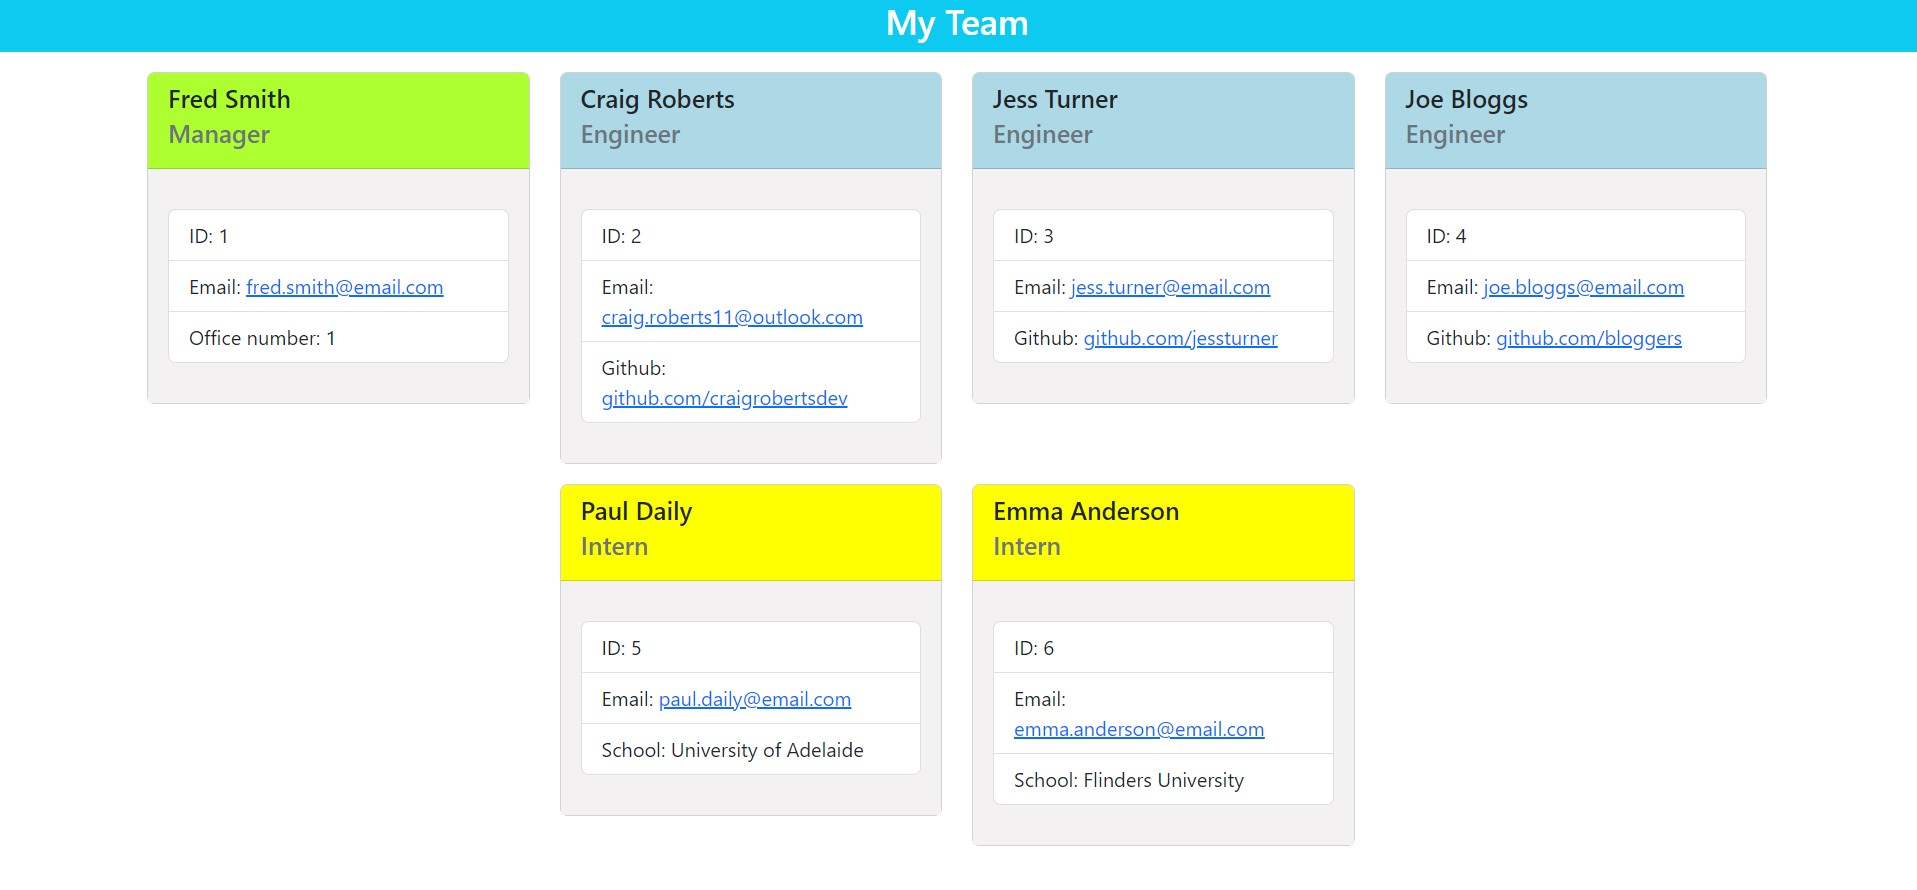
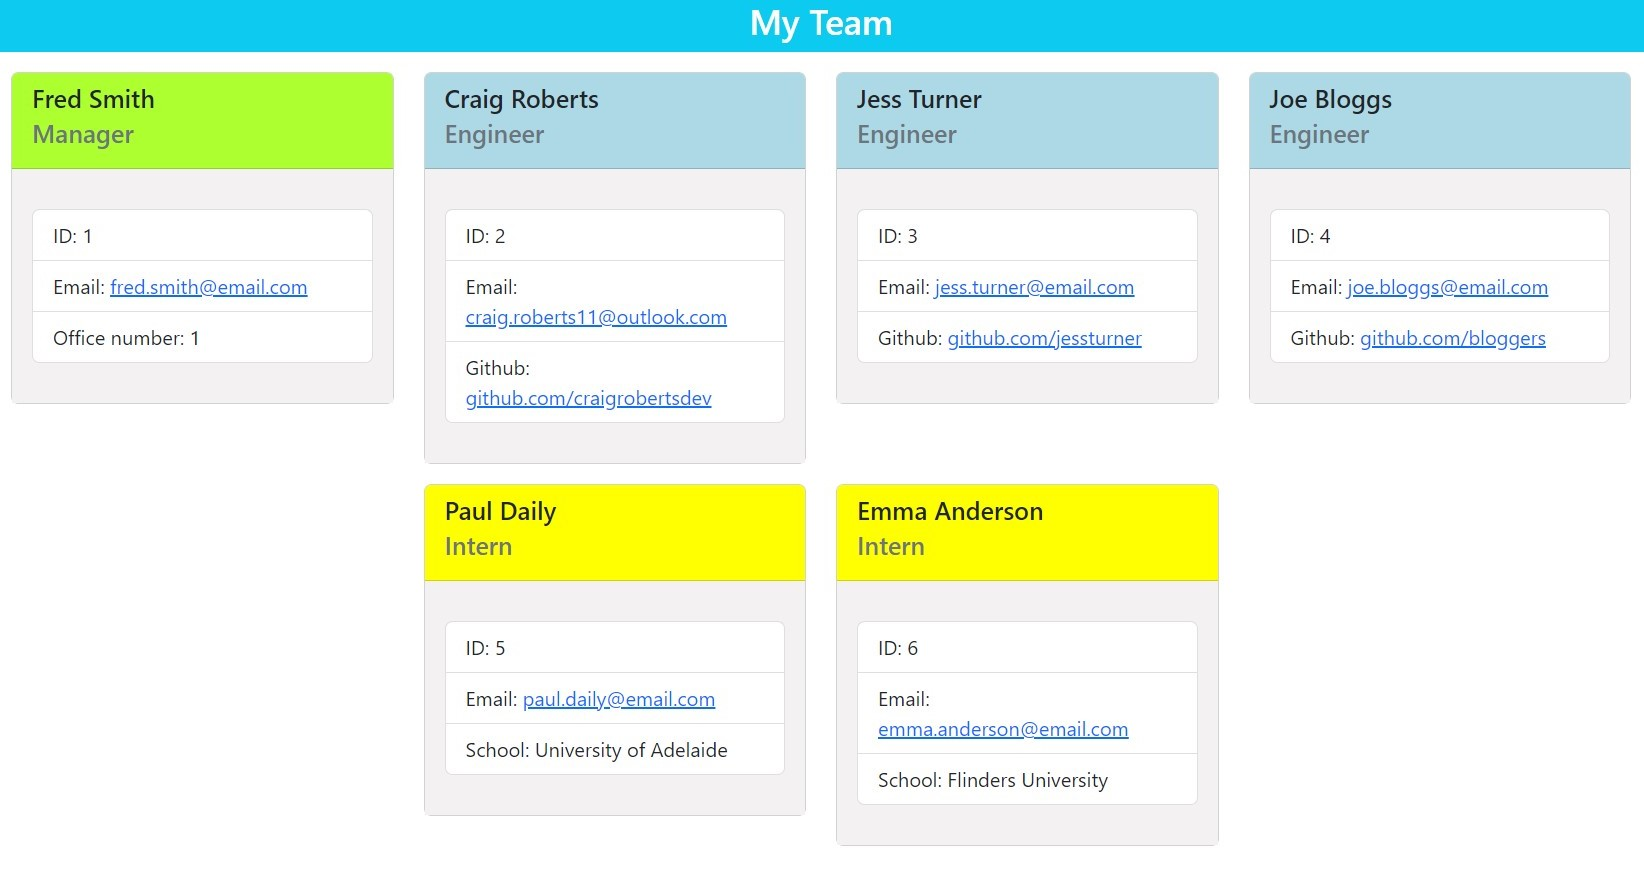
finished adding responsiveness

diff --git a/assets/css/style.css b/assets/css/style.css
@@ -227,7 +227,7 @@ h1 {
   color: var(--text-color);
 }
 
-header h2 {
+h2 {
   grid-row: 2/3;
   font-size: 2rem;
   text-align: center;
@@ -377,9 +377,9 @@ section div p,
 .project-card {
   display: grid;
   grid-template-columns: 1.5fr 1fr;
-
   grid-template-rows: auto auto auto;
   row-gap: 0;
+  column-gap: 1rem;
 }
 
 .project-container:nth-of-type(even) .project-card {
@@ -389,17 +389,18 @@ section div p,
 .project-image {
   width: 100%;
   height: 100%;
-  opacity: 0.85;
+  opacity: 0.9;
   grid-row: 1/-1;
+}
+
+.project-image-sm {
+  display: none;
 }
 
 /* for alternating the project-image either left or right  */
 .project-container:nth-of-type(odd) .project-description,
 .project-container:nth-of-type(odd) .technologies,
-.project-container:nth-of-type(odd) .project-access {
-  grid-column: 2/3;
-}
-
+.project-container:nth-of-type(odd) .project-access,
 .project-container:nth-of-type(even) .project-image {
   grid-column: 2/3;
 }
@@ -433,13 +434,6 @@ section div p,
   height: 2.5rem;
   width: 2.5rem;
 }
-
-/* .project-access-grid {
-  display: grid;
-  grid-template-columns: auto 1fr;
-  gap: 2rem;
-  margin-left: 1rem;
-} */
 
 h4 {
   font-size: 1.2rem;
@@ -526,24 +520,6 @@ footer ul {
     height: 200px;
   }
 
-  .project-header {
-    margin-bottom: 2rem;
-  }
-
-  /* change project card into a 2x3 grid to allow image to only take up half the size */
-  .project-card {
-    grid-template-columns: 1fr 1fr !important;
-    grid-template-rows: auto auto 1fr;
-    gap: 0;
-  }
-
-  .project-container:nth-of-type(n) .project-image {
-    grid-row: 1/2;
-    grid-column: 1/-1;
-    transform: scale(0.8);
-    padding-bottom: 2rem;
-  }
-
   #about-me {
     display: block;
   }
@@ -563,23 +539,40 @@ footer ul {
     margin: auto;
   }
 
-  .project-container:nth-of-type(n) .project-description {
-    width: 90%;
-    margin: auto;
-    text-align: justify;
+  .project-header {
+    margin-bottom: 2rem;
+  }
+
+  /* change project card into a 2x3 grid to allow image to only take up half the size */
+  .project-card {
+    grid-template-columns: 1fr 1fr !important;
+    grid-template-rows: auto auto 1fr;
+    gap: 0;
+  }
+
+  .project-container:nth-of-type(n) .project-image {
+    grid-row: 1/2;
     grid-column: 1/-1;
   }
 
-  .technologies {
-    grid-column: 1/2;
+  .project-image {
+    transform: scale(0.8);
+    padding-bottom: 2rem;
+  }
+
+  .project-container:nth-of-type(n) .project-description {
+    grid-column: 1/-1;
+  }
+
+  .project-container:nth-of-type(n) .technologies {
+    grid-column: 2/3;
     grid-row: 3/4;
     justify-content: center;
   }
 
-  .project-access {
+  .project-container:nth-of-type(n) .project-access {
     grid-column: 1/2;
     grid-row: 3/4;
-    /* flex-direction: column; */
     align-items: center;
   }
 }
@@ -636,12 +629,18 @@ footer ul {
     content: "";
     width: var(--bar-width);
     height: var(--bar-height);
-    background-color: var(--text-color);
+    background-color: var(--light-grey);
     border-radius: 9999px;
     transform-origin: left center;
     transition: opacity var(--animation-timing), width var(--animation-timing),
       rotate var(--animation-timing), translate var(--animation-timing),
       background-color var(--animation-timing);
+  }
+
+  .hamburger-menu:hover::before,
+  .hamburger-menu:hover::after,
+  .hamburger-menu:hover input {
+    background-color: var(--text-color);
   }
 
   .hamburger-menu input {
@@ -711,16 +710,12 @@ footer ul {
     grid-row: 2/3;
   }
 
-  .project-access {
+  .project-card .project-access:nth-last-of-type(n) {
     grid-column: 1/2;
   }
-  .technologies:nth-of-type(n) {
+  .project-card .technologies:nth-of-type(n) {
     grid-column: 2/3;
     grid-row: 3/4;
-  }
-
-  .project-image {
-    transform: scale(0.9);
   }
 
   #contact .portfolio-section ul {
@@ -784,14 +779,37 @@ footer ul {
 
 /* Extra small devices (phones, 600px and down) */
 @media only screen and (max-width: 600px) {
-  html {
-    font-size: 12px;
+  .skills-grid {
+    grid-template-rows: repeat(6, auto);
+    grid-template-columns: 1fr;
   }
 
-  /* skills grid 
-     project images?
-     project-access and technologies   
-  */
+  .skills-grid p {
+    grid-column: 1/-1;
+    padding: 0;
+    justify-content: center;
+    margin: 1rem;
+  }
+
+  .skills-grid ul {
+    grid-column: 1/-1;
+    justify-content: center;
+    margin-bottom: 1rem;
+  }
+
+  .project-image-lg {
+    display: none;
+  }
+
+  .project-image-sm {
+    display: initial;
+    max-height: 500px;
+    width: auto;
+  }
+
+  .portfolio-section {
+    padding: 0;
+  }
 
   #about-me-text-container {
     text-align: left;
@@ -817,13 +835,49 @@ footer ul {
   }
 }
 
-@media screen and (max-width: 400px) {
+@media screen and (max-width: 440px) {
+  html {
+    font-size: 12px;
+  }
+
+  h1 {
+    font-size: 2.5rem;
+  }
+
+  h2 {
+    font-size: 1.7rem;
+  }
+
+  header .button-row {
+    display: grid;
+    grid-template-columns: 1fr 1fr 1fr;
+    grid-template-rows: 1fr 1fr;
+    row-gap: 1rem;
+  }
+
+  #resume-btn {
+    grid-column: 1/-1;
+    margin: auto;
+  }
+
   #profile-photo {
     float: none;
   }
 
   #profile-photo img {
     display: block;
+    margin: auto;
+  }
+}
+
+@media only screen and (max-width: 390px) {
+  .project-image {
+    height: auto;
+    width: auto;
+  }
+
+  .project-image-sm {
+    max-width: 290px;
     margin: auto;
   }
 }

diff --git a/index.html b/index.html
@@ -242,7 +242,11 @@
               <img
                 src="./assets/images/flightdex.jpg"
                 alt="FlightDex - a domestic flight, accommodation and event search engine"
-                class="project-image" />
+                class="project-image project-image-lg" />
+              <img
+                src="/assets/images/flightdex-sm.jpg"
+                class="project-image project-image-sm"
+                alt="FlightDex - a domestic flight, accommodation and event search engine" />
               <div class="project-description">
                 <p>
                   FlightDex is a domestic flight search engine. Users can enter
@@ -300,8 +304,13 @@
             <div class="project-card">
               <img
                 src="./assets/images/employee-tracker.jpg"
-                alt="FlightDex - a domestic flight, accommodation and event search engine"
-                class="project-image" />
+                alt="Employee tracker command-line image"
+                class="project-image project-image-lg" />
+              <img
+                src="./assets/images/employee-tracker-sm.jpg"
+                alt="Employee tracker command-line image"
+                class="project-image project-image-sm" />
+
               <div class="project-description">
                 <p>
                   This command-line tool is designed to assist business owners
@@ -349,8 +358,12 @@
             <div class="project-card">
               <img
                 src="./assets/images/profile-generator.jpg"
-                alt="FlightDex - a domestic flight, accommodation and event search engine"
-                class="project-image" />
+                alt="Team-Profile-Generator image"
+                class="project-image project-image-lg" />
+              <img
+                src="./assets/images/profile-generator-sm.jpg"
+                alt="Team-Profile-Generator image"
+                class="project-image project-image-sm" />
               <div class="project-description">
                 <p>
                   This application generates a team roster by prompting the user
